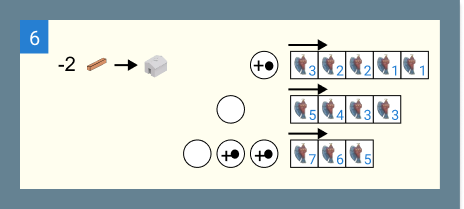
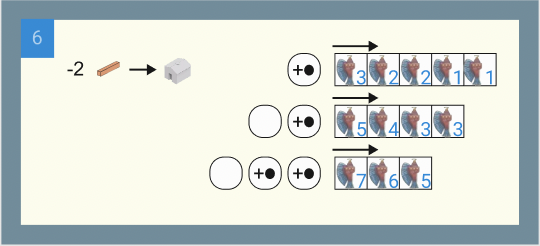
feature 1 batiment/tour/joueur

Changed region(s): [[0.0, 0.0, 1.0, 1.0]]

diff --git a/src/main/java/teotihuacan/teotihuacan/DragAndDropController.java b/src/main/java/teotihuacan/teotihuacan/DragAndDropController.java
@@ -9,50 +9,25 @@ import javafx.scene.Node;
 import javafx.scene.image.Image;
 import javafx.scene.image.ImageView;
 import javafx.scene.input.*;
+import javafx.scene.layout.GridPane;
 import javafx.scene.layout.HBox;
+import javafx.scene.layout.Pane;
 
 import java.net.URL;
+import java.util.Locale;
+import java.util.Objects;
 import java.util.ResourceBundle;
 import static teotihuacan.teotihuacan.Main.*;
 
 import static teotihuacan.teotihuacan.Player.currentPlayer;
+import static teotihuacan.teotihuacan.Player.printPlayer;
 
 public class DragAndDropController extends GameController implements Initializable {
 
-
-
     @FXML
-    private ImageView home1;
-
+    private GridPane ouvriersJoueurs;
     @FXML
-    private ImageView home10;
-
-    @FXML
-    private ImageView home11;
-
-    @FXML
-    private ImageView home2;
-
-    @FXML
-    private ImageView home3;
-
-    @FXML
-    private ImageView home4;
-
-    @FXML
-    private ImageView home5;
-
-    @FXML
-    private ImageView home6;
-
-    @FXML
-    private ImageView home7;
-
-    @FXML
-    private ImageView home8;
-
-    @FXML
-    private ImageView home9;
+    private GridPane gridOuvrier;
 
     @FXML
     private HBox dragElement;
@@ -77,9 +52,11 @@ public class DragAndDropController extends GameController implements Initializab
             setupGestureSource((ImageView) children);
         }
 
-        setupGestureTarget(drop1,5);
-        if(drop2 != null) setupGestureTarget(drop2,4);
-        if(drop3 != null)setupGestureTarget(drop3,3);
+        setupGestureTarget(5,null, drop1);
+        if(drop2 != null) setupGestureTarget(4, null, drop2);
+        if(drop3 != null)setupGestureTarget(3, null, drop3);
+
+
 
     }
 
@@ -122,8 +99,12 @@ public class DragAndDropController extends GameController implements Initializab
         });
     }
 
-    void setupGestureTarget(final HBox targetBox, int nbMaxImg){
-
+    void setupGestureTarget( int nbMaxImg, GridPane gridPane, HBox hbox){
+        Node targetBox;
+        if(gridPane != null && hbox == null){
+            targetBox = gridPane;
+        }
+        else targetBox = hbox;
 
         targetBox.setOnDragOver(new EventHandler <DragEvent>() {
             @Override
@@ -136,6 +117,8 @@ public class DragAndDropController extends GameController implements Initializab
                 }
 
                 event.consume();
+
+
             }
         });
 
@@ -145,24 +128,42 @@ public class DragAndDropController extends GameController implements Initializab
 
                 Dragboard db = event.getDragboard();
                 nbWood = currentPlayer.countRessource("bois");
-                System.out.println(" nb bois : " + nbWood + " placer batiment " + model.getPoserBatiment());
-                if(db.hasImage() && targetBox.getChildren().size() < nbMaxImg && nbWood >= 2 && model.getPoserBatiment()){
+                System.out.println(" nb bois : " + nbWood + " placer batiment " + model.getPoserBatiment() + " size = " + ((Pane) targetBox).getChildren().size() + " < "+  nbMaxImg + " size grid ouvrier = " +gridOuvrier.getChildren().size() + "height = "+ ((Pane) targetBox).getHeight());
+                if(db.hasImage() && ((Pane) targetBox).getChildren().size() < nbMaxImg ){
+                    if(((Pane) targetBox).getHeight() == 38 && nbWood >=2 && model.getPoserBatiment() && gridOuvrier.getChildren().size()>=1 || ((Pane) targetBox).getHeight() == 105){
+                        iv.setImage(db.getImage());
 
+                        Point2D localPoint = targetBox.sceneToLocal(new Point2D(event.getSceneX(), event.getSceneY()));
 
-                    iv.setImage(db.getImage());
+                        if(!targetBox.getId().equals("gridOuvrier")){
+                            ((Pane) targetBox).getChildren().remove(iv);
+                            System.out.println("pas grid ouvrier ça ");
+                        }
+                        
 
-                    Point2D localPoint = targetBox.sceneToLocal(new Point2D(event.getSceneX(), event.getSceneY()));
+                        iv.setX((int)(localPoint.getX() - iv.getBoundsInLocal().getWidth()  / 2)  );
+                        iv.setY((int)(localPoint.getY() - iv.getBoundsInLocal().getHeight() / 2) );
 
+                        if(!targetBox.getId().equals("gridOuvrier")) ((Pane) targetBox).getChildren().add(iv);
+                        else {
+                            gridOuvrier.add(iv, model.getNbOuvrierCase6(),0);
+                            model.addNbOuvrierCase6();
+                        }
 
-                    targetBox.getChildren().remove(iv);
+                        if(targetBox.getId().equals("drop1") || targetBox.getId().equals("drop2") || targetBox.getId().equals("drop3"))actualiser();
+                        if(targetBox.getId().equals("drop1")) {
+                            currentPlayer.ouvriers[0].augmenterForce();
+                            gridOuvrier.getChildren().remove(model.getNbOuvrierCase6()-1);
+                            ImageView img = new ImageView(new Image("file:src/main/resources/ouvriers/de_"+currentPlayer.getColor().toLowerCase() + "_"+currentPlayer.ouvriers[0].getForce() + ".png"));
+                            img.setFitHeight(50);
+                            img.setFitWidth(50);
+                            System.out.println(model.getNbOuvrierCase6());
+                            gridOuvrier.add(img, model.getNbOuvrierCase6()-1, 0);
+                            //model.addNbOuvrierCase6();
+                        }
+                        event.setDropCompleted(true);
+                    }
 
-                    iv.setX((int)(localPoint.getX() - iv.getBoundsInLocal().getWidth()  / 2)  );
-                    iv.setY((int)(localPoint.getY() - iv.getBoundsInLocal().getHeight() / 2) );
-
-                    targetBox.getChildren().add(iv);
-
-                    actualiser();
-                    event.setDropCompleted(true);
                 }else{
                     event.setDropCompleted(false);
                 }
@@ -173,6 +174,8 @@ public class DragAndDropController extends GameController implements Initializab
 
 
     }
+
+
 
     public void quitter(){
         super.quitter();
@@ -192,6 +195,35 @@ public class DragAndDropController extends GameController implements Initializab
             }
         }
         model.setPoserBatiment(false);
+    }
+
+    public void actualiserOuvrier(){
+        int col = 0, line = 0;
+        for(int i=0; i< currentPlayer.ouvriers.length; i++){
+            if(i==2){
+                col = 0;
+                line = 1;
+            }
+            String imgName = "de_"+currentPlayer.getColor().toLowerCase() + "_"+currentPlayer.ouvriers[i].getForce() + ".png";
+
+            Image imgv1 = new Image("file:src/main/resources/ouvriers/"+imgName);
+
+            ImageView img = new ImageView(imgv1);
+            img.setFitHeight(50);
+            img.setFitWidth(50);
+            setupGestureSource(img);
+            ouvriersJoueurs.add(img,col,line);
+
+            col++;
+        }
+
+        setupGestureTarget(4, ouvriersJoueurs, null);
+        setupGestureTarget(12, gridOuvrier, null);
+
+
+
+
+
     }
 
 }

diff --git a/src/main/java/teotihuacan/teotihuacan/Player.java b/src/main/java/teotihuacan/teotihuacan/Player.java
@@ -9,8 +9,8 @@ public class Player {
     public static List<Player> players = new ArrayList<>();
     static int nbPlayer;
     static Player currentPlayer;
-    public static Ouvrier[] ouvriers = new Ouvrier[4];
-
+    public Ouvrier[] ouvriers;
+    static final int nbOuvrier = 4;
     private int numero;
     private String color;
     private List<Ressource> ressources = new ArrayList<>();
@@ -19,6 +19,11 @@ public class Player {
     public Player(int numero, String color){
         setNumero(numero);
         setColor(color);
+
+        ouvriers = new Ouvrier[nbOuvrier];
+        for(int i = 0; i< nbOuvrier; i++){
+            ouvriers[i] = new Ouvrier();
+        }
     }
 
     /**

diff --git a/src/main/java/teotihuacan/teotihuacan/Model.java b/src/main/java/teotihuacan/teotihuacan/Model.java
@@ -9,6 +9,7 @@ public class Model {
     public int playerRouge = 0;
     public int nbTour;
     public Boolean poserBatiment = true;
+    public int nbOuvrierCase6 = 0;
 
     public int getNbBatiment() {
         return nbBatiment;
@@ -68,5 +69,13 @@ public class Model {
 
     public void setPoserBatiment(Boolean poserBatiment) {
         this.poserBatiment = poserBatiment;
+    }
+
+    public int getNbOuvrierCase6() {
+        return nbOuvrierCase6;
+    }
+
+    public void addNbOuvrierCase6() {
+        this.nbOuvrierCase6 += 1;
     }
 }

diff --git a/src/main/java/teotihuacan/teotihuacan/Objet.java b/src/main/java/teotihuacan/teotihuacan/Objet.java
@@ -10,7 +10,7 @@ public abstract class Objet {
 }
 
 class Ouvrier extends Objet {
-    private int force;
+    private int force = 1;
 
     public Ouvrier(){
         type = "ouvrier";
